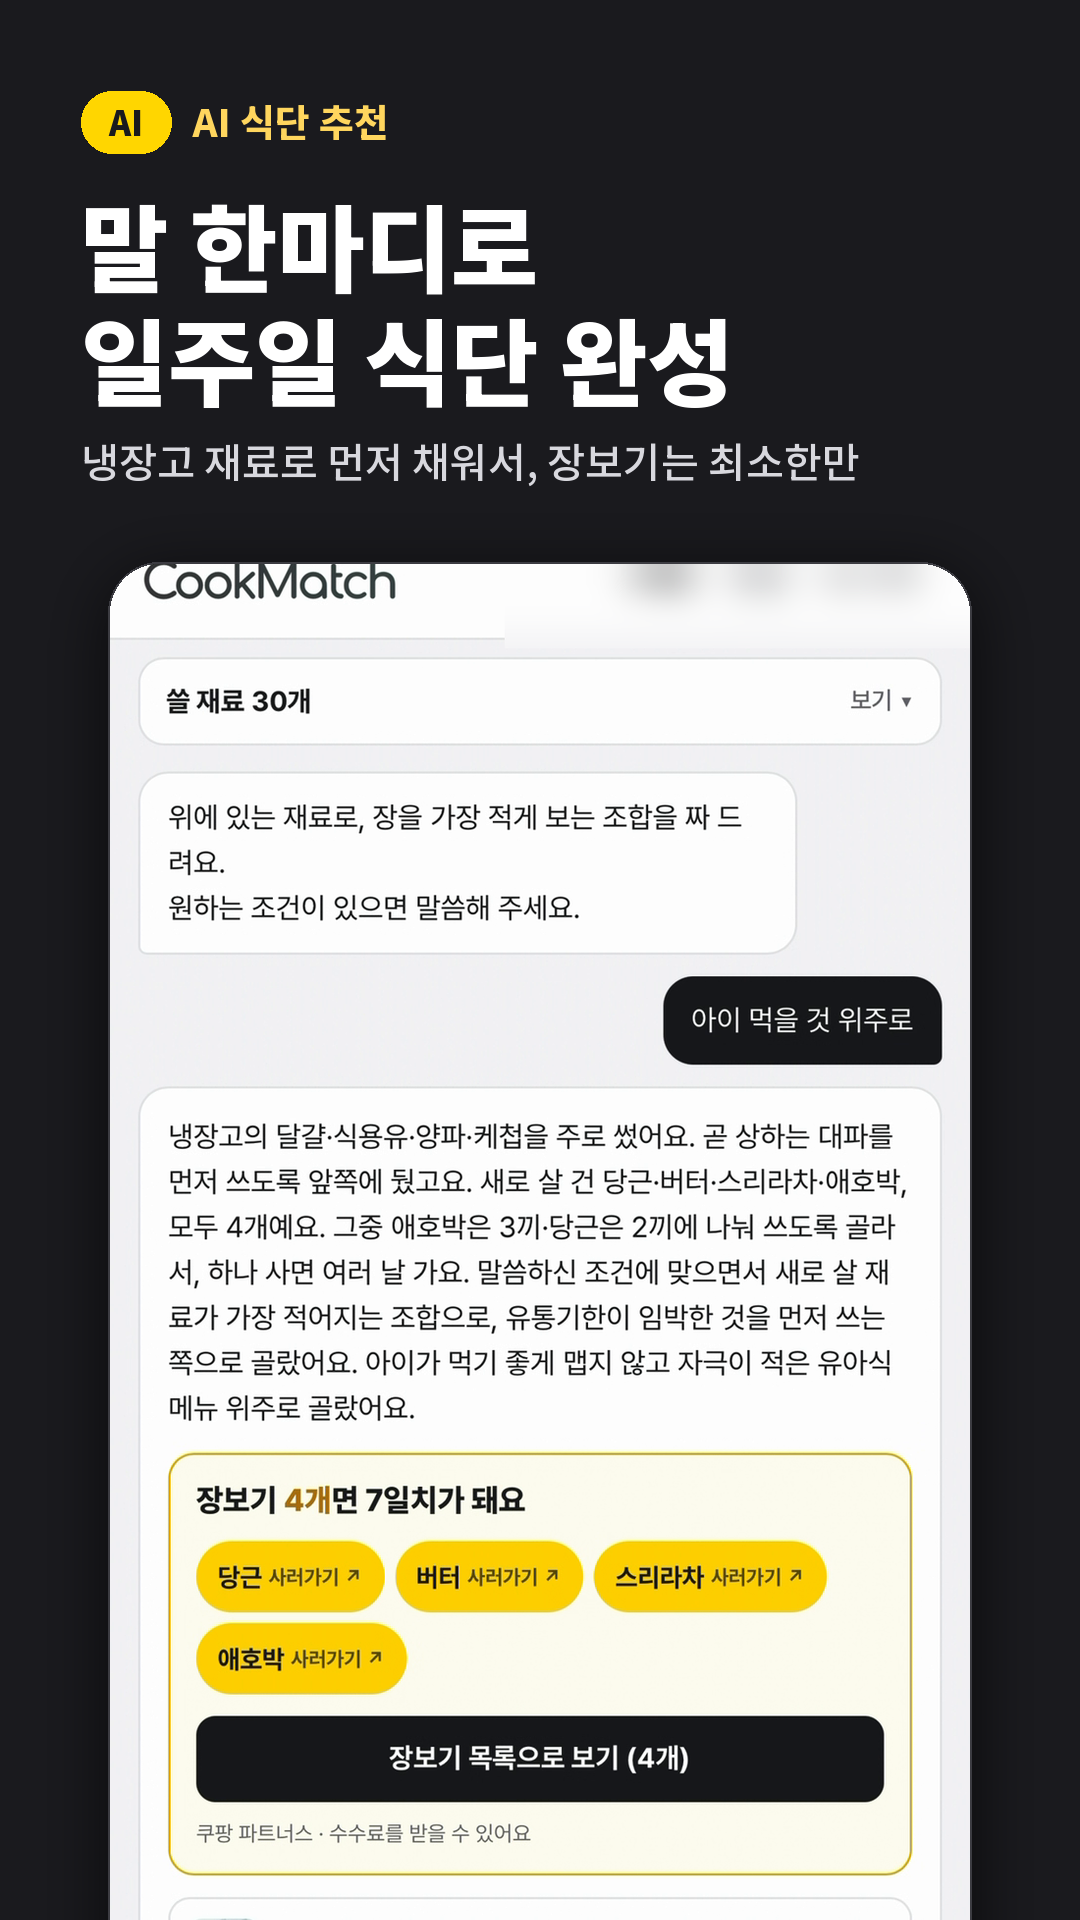
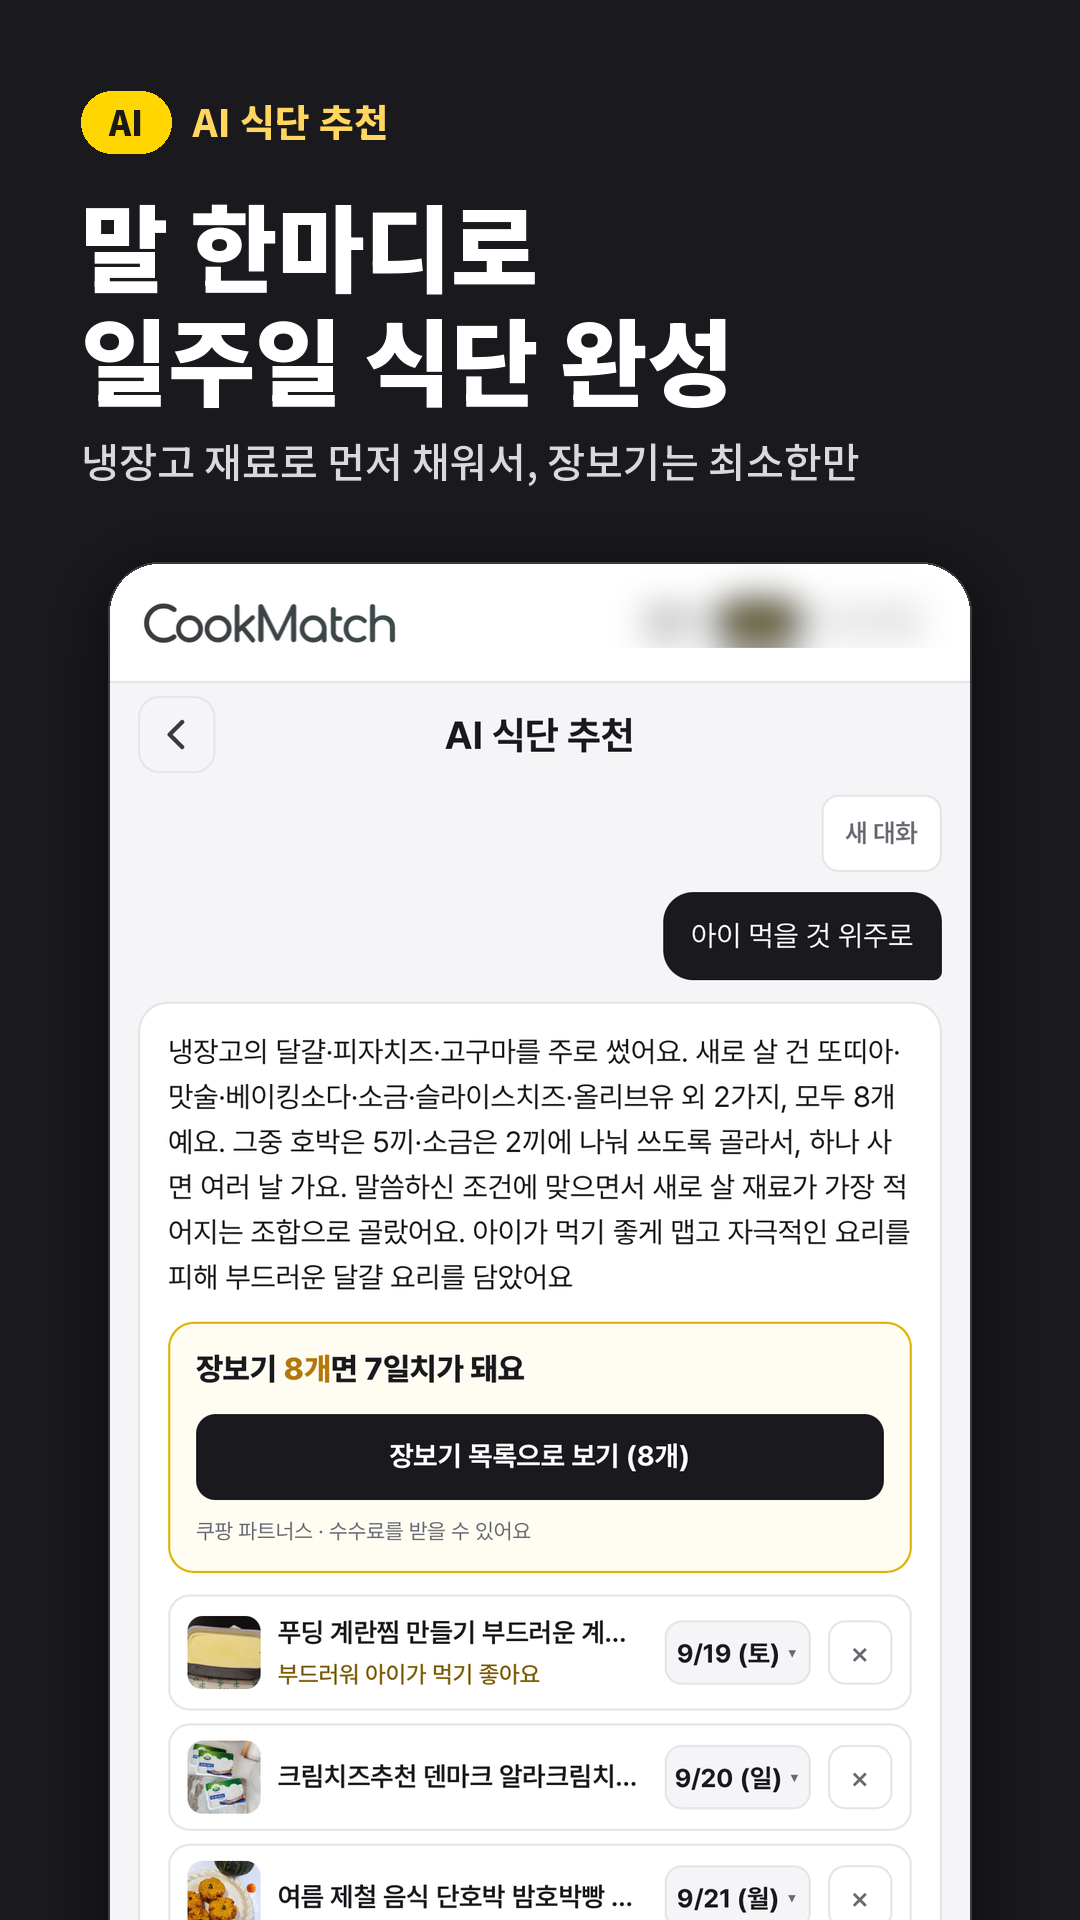
스토어 스크린샷 2차 — 실제 캡처 교체, 팝업·카메라·절약액 보조 이미지와 소리 배지 추가
사용자가 찍어 준 실제 앱 화면으로 AI 식단 장을 바꾸고, 사진 인식(카메라 화면)·
매칭도 설정·임박 재료 설정 팝업을 기울인 카드로, 대체 재료 카드와 가족 절약액을
확대 콜아웃으로 얹었다. 요리 모드엔 가운데 소리 배지, 가족 장은 절약액 카피로 변경.

diff --git a/store/make_store_assets.py b/store/make_store_assets.py
@@ -31,6 +31,7 @@
 import os
 import subprocess
 import sys
+import time
 
 from PIL import Image, ImageChops, ImageDraw, ImageFilter, ImageFont
 
@@ -209,21 +210,45 @@ def make_feature_graphic(icon):
 # 스크린샷
 # ---------------------------------------------------------------------------
 
-# 원본 화면: (파일, 영상이면 초 단위 시점). 녹화본 대부분이 폭 880 안팎 × 높이 1920,
-# 위쪽 약 180px 이 iOS 상태바 + 화면 녹화 표시라 잘라낸다(릴스 편집 때와 같은 값).
+# 원본 화면: (저장소 기준 경로, 영상이면 초 단위 시점, 위에서 잘라낼 px). 녹화본 대부분은
+# 위쪽이 iOS 상태바 + 화면 녹화 표시라 잘라낸다. 상태바 없이 앱 화면만 녹화된 것(01·02편 데모)은 0.
+# store/sources/ 는 사용자가 직접 찍어 준 실제 앱 캡처(2026-09-18).
+V = "my-video/public/"
 SOURCES = {
-    "diet": ("reel4_shopping_freeze.png", None, 180),
-    "chat": ("reel6_chatbot_demo.mp4", 29.2, 180),
-    "photo": ("reel1_loading_freeze.png", None, 0),  # 이 녹화본은 상태바 없이 앱 화면만
-    "match": ("reel2_matching_demo_fixed.mp4", 9.0, 180),
-    "substitute": ("reel2_substitute_freeze.png", None, 180),
-    "expiry": ("reel5_expiry_demo.mp4", 16.0, 180),
-    "cook": ("reel3_reading_freeze.png", None, 180),
-    "family": ("reel8_family_demo.mp4", 16.5, 180),
+    "diet": ("store/sources/diet_ai_plan.png", None, 185),
+    "chat": (V + "reel6_chatbot_demo.mp4", 29.2, 180),
+    "photo": (V + "reel1_loading_freeze.png", None, 0),
+    "match": (V + "reel2_matching_demo_fixed.mp4", 9.0, 0),
+    "substitute": (V + "reel2_substitute_freeze.png", None, 0),
+    "expiry": (V + "reel5_expiry_demo.mp4", 16.0, 180),
+    "cook": (V + "reel3_reading_freeze.png", None, 180),
+    "family": (V + "reel8_family_demo.mp4", 16.5, 180),
+}
+
+# 폰 화면 위에 겹쳐 올리는 보조 이미지(기울인 작은 카드 / 확대 콜아웃).
+#   crop: 원본 픽셀 좌표(상태바 자르기 전)  w: 캔버스 폭 대비 너비  angle: 반시계 방향 기울기(도)
+#   cx: 캔버스 폭 대비 중심 x  cy: 폰 화면 윗변에서 중심까지 거리(캔버스 폭 대비)
+INSETS = {
+    # 사진 찍는 화면(피자치즈) — 오른쪽 위에 작은 폰처럼
+    "photo": dict(src="store/sources/camera_pizza_cheese.png", crop=(0, 223, 1206, 2622),
+                  w=0.33, angle=-7, cx=0.78, cy=0.36, radius=0.05),
+    # 재료 매칭도 설정 팝업
+    "match": dict(src="store/sources/match_filter_popup.png", crop=(92, 642, 1114, 2166),
+                  w=0.47, angle=-6, cx=0.72, cy=0.40, radius=0.04),
+    # "대체 가능 · 당근→양파"가 있는 레시피 카드를 잘라 크게
+    "substitute": dict(src=V + "reel2_substitute_freeze.png", crop=(30, 624, 910, 1070),
+                       w=0.92, angle=-2, cx=0.5, cy=0.78, radius=0.03),
+    # 임박 재료 설정 팝업
+    "expiry": dict(src="store/sources/expiry_filter_popup.png", crop=(92, 665, 1114, 2145),
+                   w=0.47, angle=-6, cx=0.72, cy=0.40, radius=0.04),
+    # 가족별 요리 횟수 + 이번 달 절약액과 그 계산식
+    "family": dict(src=V + "reel8_savings_bg.png", crop=(20, 248, 860, 850),
+                   w=0.9, angle=-2, cx=0.5, cy=0.62, radius=0.03),
 }
 
 # band: k=검정(AI 기능), y=브랜드 노랑, w=밝은 회색. focus: 폰 화면을 위에서부터 어디쯤
 # 보여줄지(원본 높이 대비 비율, 상태바 자른 뒤 기준) — 핵심 UI가 잘리지 않게 편마다 맞춤.
+# badge="sound": 폰 화면 가운데에 소리 표시(요리 모드).
 SLIDES = [
     dict(key="diet", band="k", ai=True, eyebrow="AI 식단 추천",
          headline="말 한마디로\n일주일 식단 완성", sub="냉장고 재료로 먼저 채워서, 장보기는 최소한만", focus=0.0),
@@ -238,9 +263,9 @@ SLIDES = [
     dict(key="expiry", band="w", ai=False, eyebrow="유통기한 관리",
          headline="곧 상할 재료부터\n먼저 요리하세요", sub="유통기한 임박한 재료 순으로 레시피를 추천해요", focus=0.0),
     dict(key="cook", band="w", ai=False, eyebrow="요리 모드",
-         headline="손에 물 묻어도\n귀로 들으세요", sub="조리 순서를 소리로 읽어드려요", focus=0.0),
+         headline="손에 물 묻어도\n귀로 들으세요", sub="조리 순서를 소리로 읽어드려요", focus=0.0, badge="sound"),
     dict(key="family", band="y", ai=False, eyebrow="우리 식구 요리",
-         headline="가족이 함께 쓰는\n요리 캘린더", sub="누가 언제 뭘 만들었는지, 이번 달 목표까지", focus=0.0),
+         headline="가족이 함께,\n아낀 돈까지 한눈에", sub="누가 몇 번 요리했는지, 외식 대비 아낀 돈을 계산해요", focus=0.0),
 ]
 
 SIZES = {"play": (1080, 1920), "ios": (1290, 2796)}
@@ -248,7 +273,7 @@ SIZES = {"play": (1080, 1920), "ios": (1290, 2796)}
 
 def load_frame(key):
     name, t, top_crop = SOURCES[key]
-    path = os.path.join(VIDEO_PUBLIC, name)
+    path = os.path.join(ROOT, name)
     if t is not None:
         os.makedirs(FRAME_CACHE, exist_ok=True)
         cached = os.path.join(FRAME_CACHE, f"{key}.png")
@@ -266,6 +291,82 @@ def load_frame(key):
 
 def wrap_lines(text):
     return text.split("\n")
+
+
+def save_png(img, path):
+    """임시 파일에 쓴 뒤 바꿔 끼운다. 윈도우에서 백신·검색 색인이 방금 쓴 PNG를 잠깐 붙잡고
+    있으면 같은 이름으로 다시 열 때 `OSError: [Errno 22]`가 나서, 몇 번 다시 시도한다."""
+    tmp = path + ".tmp.png"
+    img.save(tmp)
+    for attempt in range(10):
+        try:
+            os.replace(tmp, path)
+            return
+        except OSError:
+            time.sleep(0.5 * (attempt + 1))
+    raise OSError(f"저장 실패(파일이 잠겨 있음): {path}")
+
+
+def paste_inset(img, spec, W, phone_top):
+    """보조 이미지를 둥근 카드로 잘라 기울여서 그림자와 함께 얹는다."""
+    src = Image.open(os.path.join(ROOT, spec["src"])).convert("RGB").crop(spec["crop"])
+    w = int(W * spec["w"])
+    h = int(src.height * w / src.width)
+    card = src.resize((w, h), Image.LANCZOS).convert("RGBA")
+    r = int(W * spec["radius"])
+    mask = Image.new("L", (w, h), 0)
+    ImageDraw.Draw(mask).rounded_rectangle([0, 0, w - 1, h - 1], radius=r, fill=255)
+    card.putalpha(mask)
+    # 흰 카드가 흰 앱 화면 위에서도 구분되게 얇은 테두리
+    ImageDraw.Draw(card).rounded_rectangle([0, 0, w - 1, h - 1], radius=r, outline=(215, 215, 222, 255), width=max(2, W // 500))
+
+    rot = card.rotate(spec["angle"], resample=Image.BICUBIC, expand=True)
+    cx = int(W * spec["cx"])
+    cy = phone_top + int(W * spec["cy"])
+    x0, y0 = cx - rot.width // 2, cy - rot.height // 2
+
+    shadow = Image.new("RGBA", img.size, (0, 0, 0, 0))
+    sh = Image.new("RGBA", rot.size, (0, 0, 0, 0))
+    sh.putalpha(rot.split()[3].point(lambda a: int(a * 0.45)))
+    shadow.paste(sh, (x0, y0 + int(W * 0.018)), sh)
+    shadow = shadow.filter(ImageFilter.GaussianBlur(int(W * 0.022)))
+    base = img.convert("RGBA")
+    base.alpha_composite(shadow)
+    base.alpha_composite(rot, (x0, y0))
+    return base.convert("RGB")
+
+
+def paste_sound_badge(img, W, cx, cy):
+    """요리 모드 — 폰 화면 가운데에 "소리로 읽는 중" 표시(노란 원 + 스피커 + 음파, 아래 알약 문구)."""
+    base = img.convert("RGBA")
+    D = int(W * 0.3)
+    layer = Image.new("RGBA", base.size, (0, 0, 0, 0))
+    d = ImageDraw.Draw(layer)
+    # 그림자
+    sh = Image.new("RGBA", base.size, (0, 0, 0, 0))
+    ImageDraw.Draw(sh).ellipse([cx - D // 2, cy - D // 2 + int(W * 0.02), cx + D // 2, cy + D // 2 + int(W * 0.02)], fill=(0, 0, 0, 110))
+    base.alpha_composite(sh.filter(ImageFilter.GaussianBlur(int(W * 0.025))))
+    d.ellipse([cx - D // 2, cy - D // 2, cx + D // 2, cy + D // 2], fill=BRAND + (255,))
+    # 스피커(사각 + 나팔)
+    u = D / 10
+    sx = cx - u * 2.6
+    d.rectangle([sx - u * 1.0, cy - u * 0.9, sx + u * 0.2, cy + u * 0.9], fill=INK)
+    d.polygon([(sx + u * 0.2, cy - u * 0.9), (sx + u * 1.9, cy - u * 2.3), (sx + u * 1.9, cy + u * 2.3), (sx + u * 0.2, cy + u * 0.9)], fill=INK)
+    # 음파 호 2개
+    lw = max(3, int(u * 0.55))
+    for rr in (u * 1.6, u * 3.0):
+        ax = sx + u * 1.9
+        d.arc([ax - rr, cy - rr, ax + rr, cy + rr], start=-50, end=50, fill=INK, width=lw)
+    # 아래 알약 문구
+    f = font(int(W * 0.036), 800)
+    text = "소리로 읽는 중"
+    tw = d.textlength(text, font=f)
+    ph = int(W * 0.075)
+    py = cy + D // 2 + int(W * 0.03)
+    d.rounded_rectangle([cx - tw / 2 - ph * 0.6, py, cx + tw / 2 + ph * 0.6, py + ph], radius=ph // 2, fill=INK + (240,))
+    d.text((cx, py + ph / 2), text, font=f, fill=BRAND, anchor="mm")
+    base.alpha_composite(layer)
+    return base.convert("RGB")
 
 
 def render_slide(slide, W, H):
@@ -340,6 +441,13 @@ def render_slide(slide, W, H):
     if band == "k":
         # 검은 배경에선 흰 화면 가장자리가 너무 튀지 않게 얇은 테두리
         ImageDraw.Draw(img).rounded_rectangle([px0, y, px0 + pw - 1, bottom - 1], radius=radius, outline=(60, 60, 66), width=max(2, W // 400))
+
+    if slide["key"] in INSETS:
+        img = paste_inset(img, INSETS[slide["key"]], W, y)
+    if slide.get("badge") == "sound":
+        # 보이는 폰 화면의 가운데쯤(캔버스 아래로 흘러 나간 부분은 빼고)
+        visible_bottom = min(bottom, H)
+        img = paste_sound_badge(img, W, W // 2, (y + visible_bottom) // 2)
     return img
 
 
@@ -348,7 +456,7 @@ def make_shots():
         out = os.path.join(STORE, "screenshots", platform)
         os.makedirs(out, exist_ok=True)
         for i, slide in enumerate(SLIDES, 1):
-            render_slide(slide, W, H).save(os.path.join(out, f"{i:02d}_{slide['key']}.png"))
+            save_png(render_slide(slide, W, H), os.path.join(out, f"{i:02d}_{slide['key']}.png"))
         print(f"{platform} {W}x{H}: {len(SLIDES)}장")
 
 
